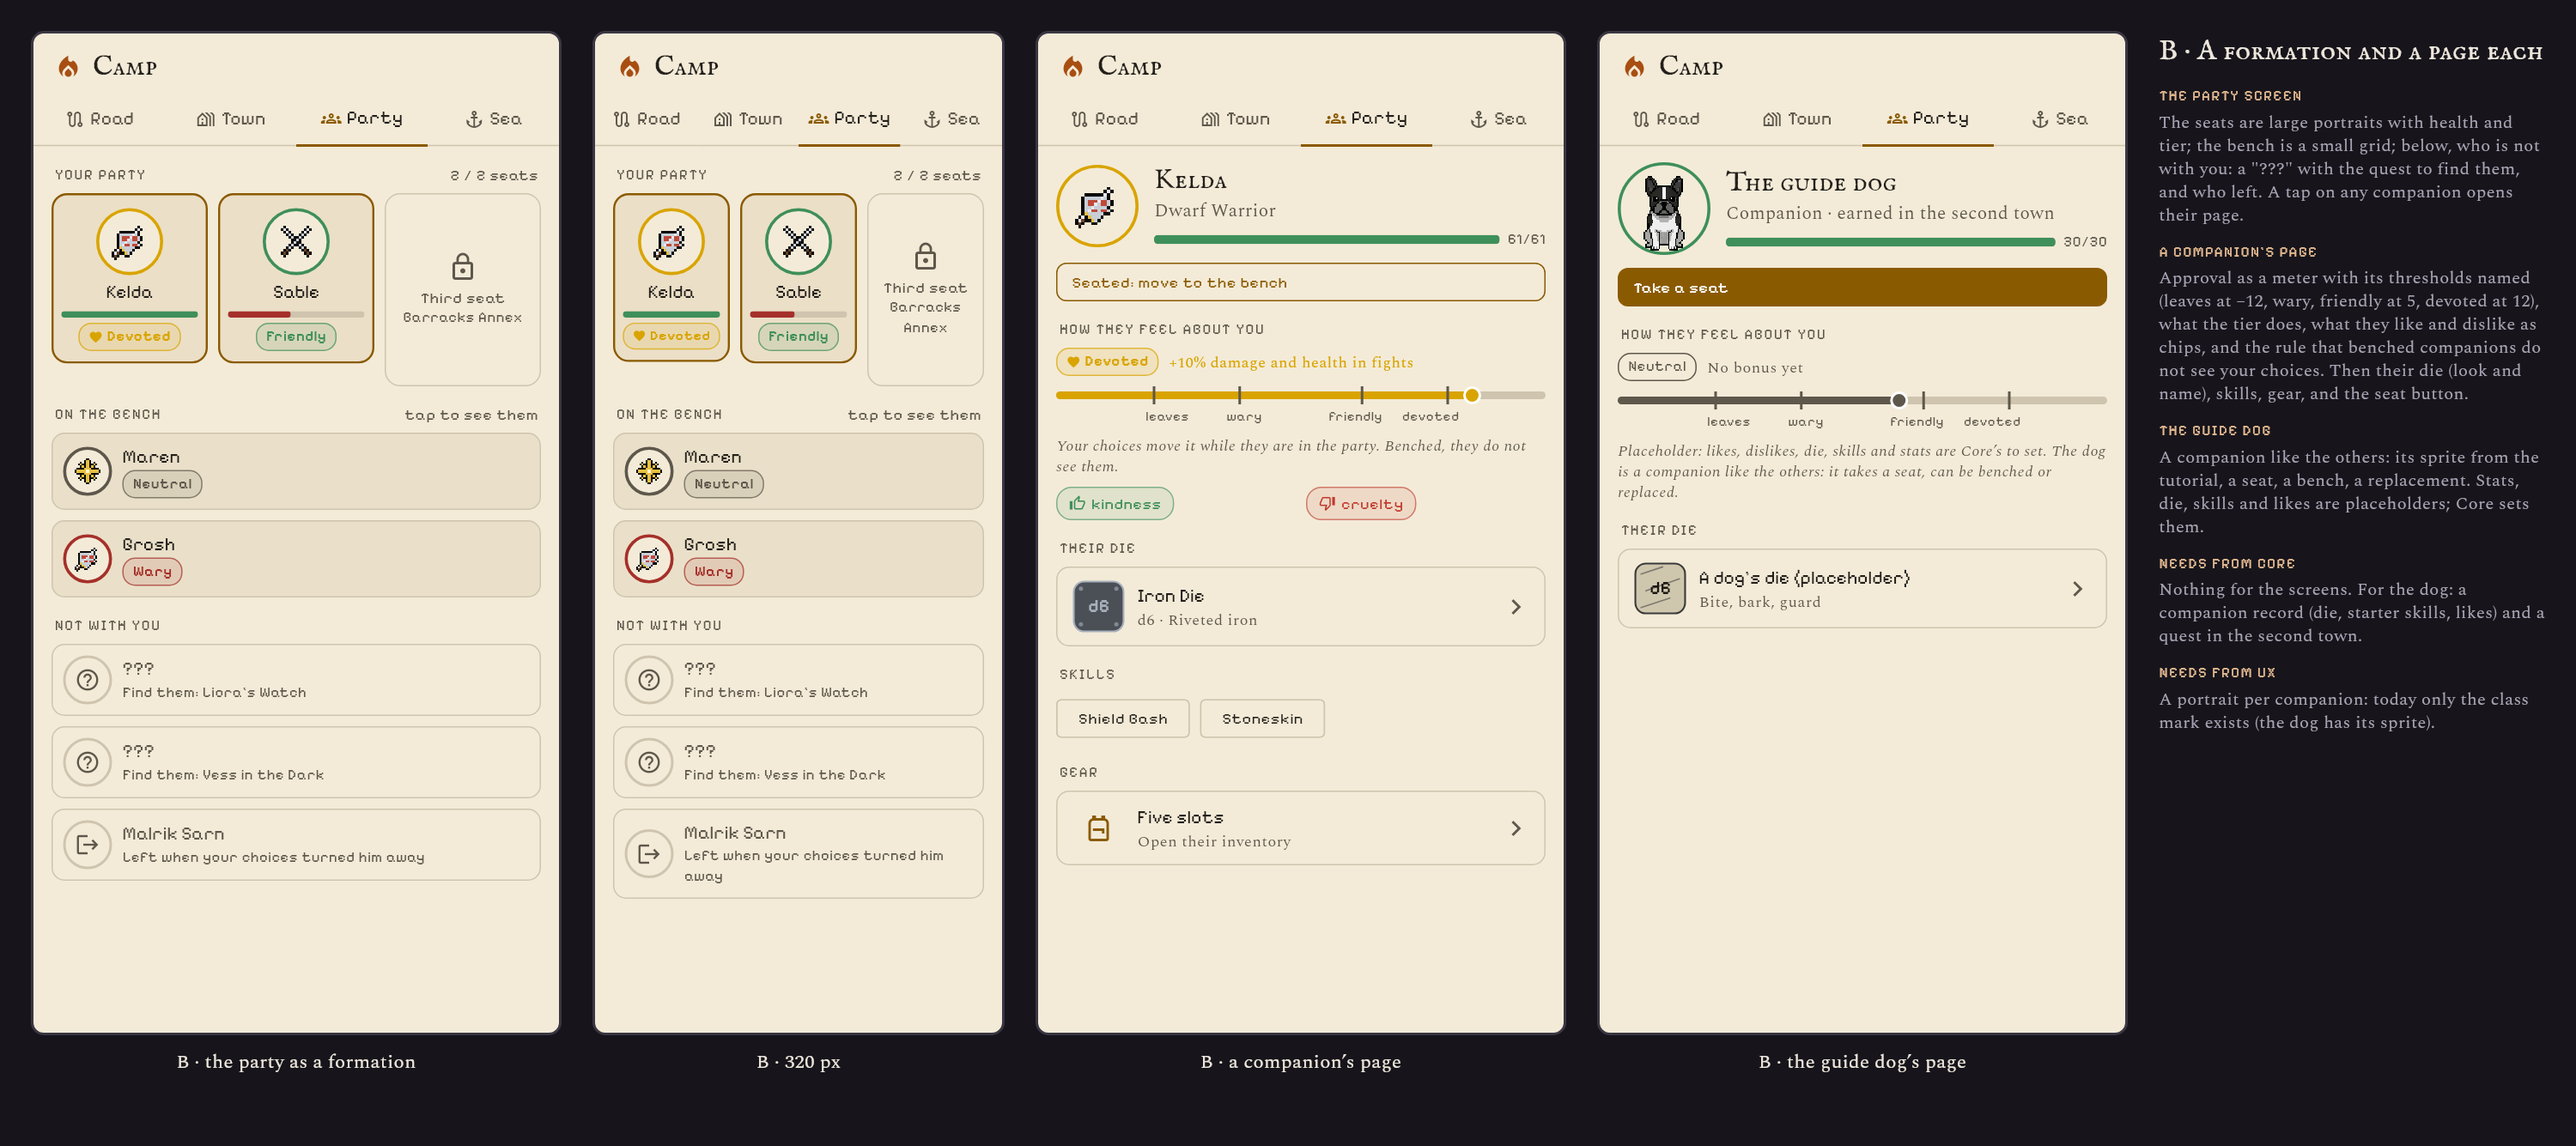
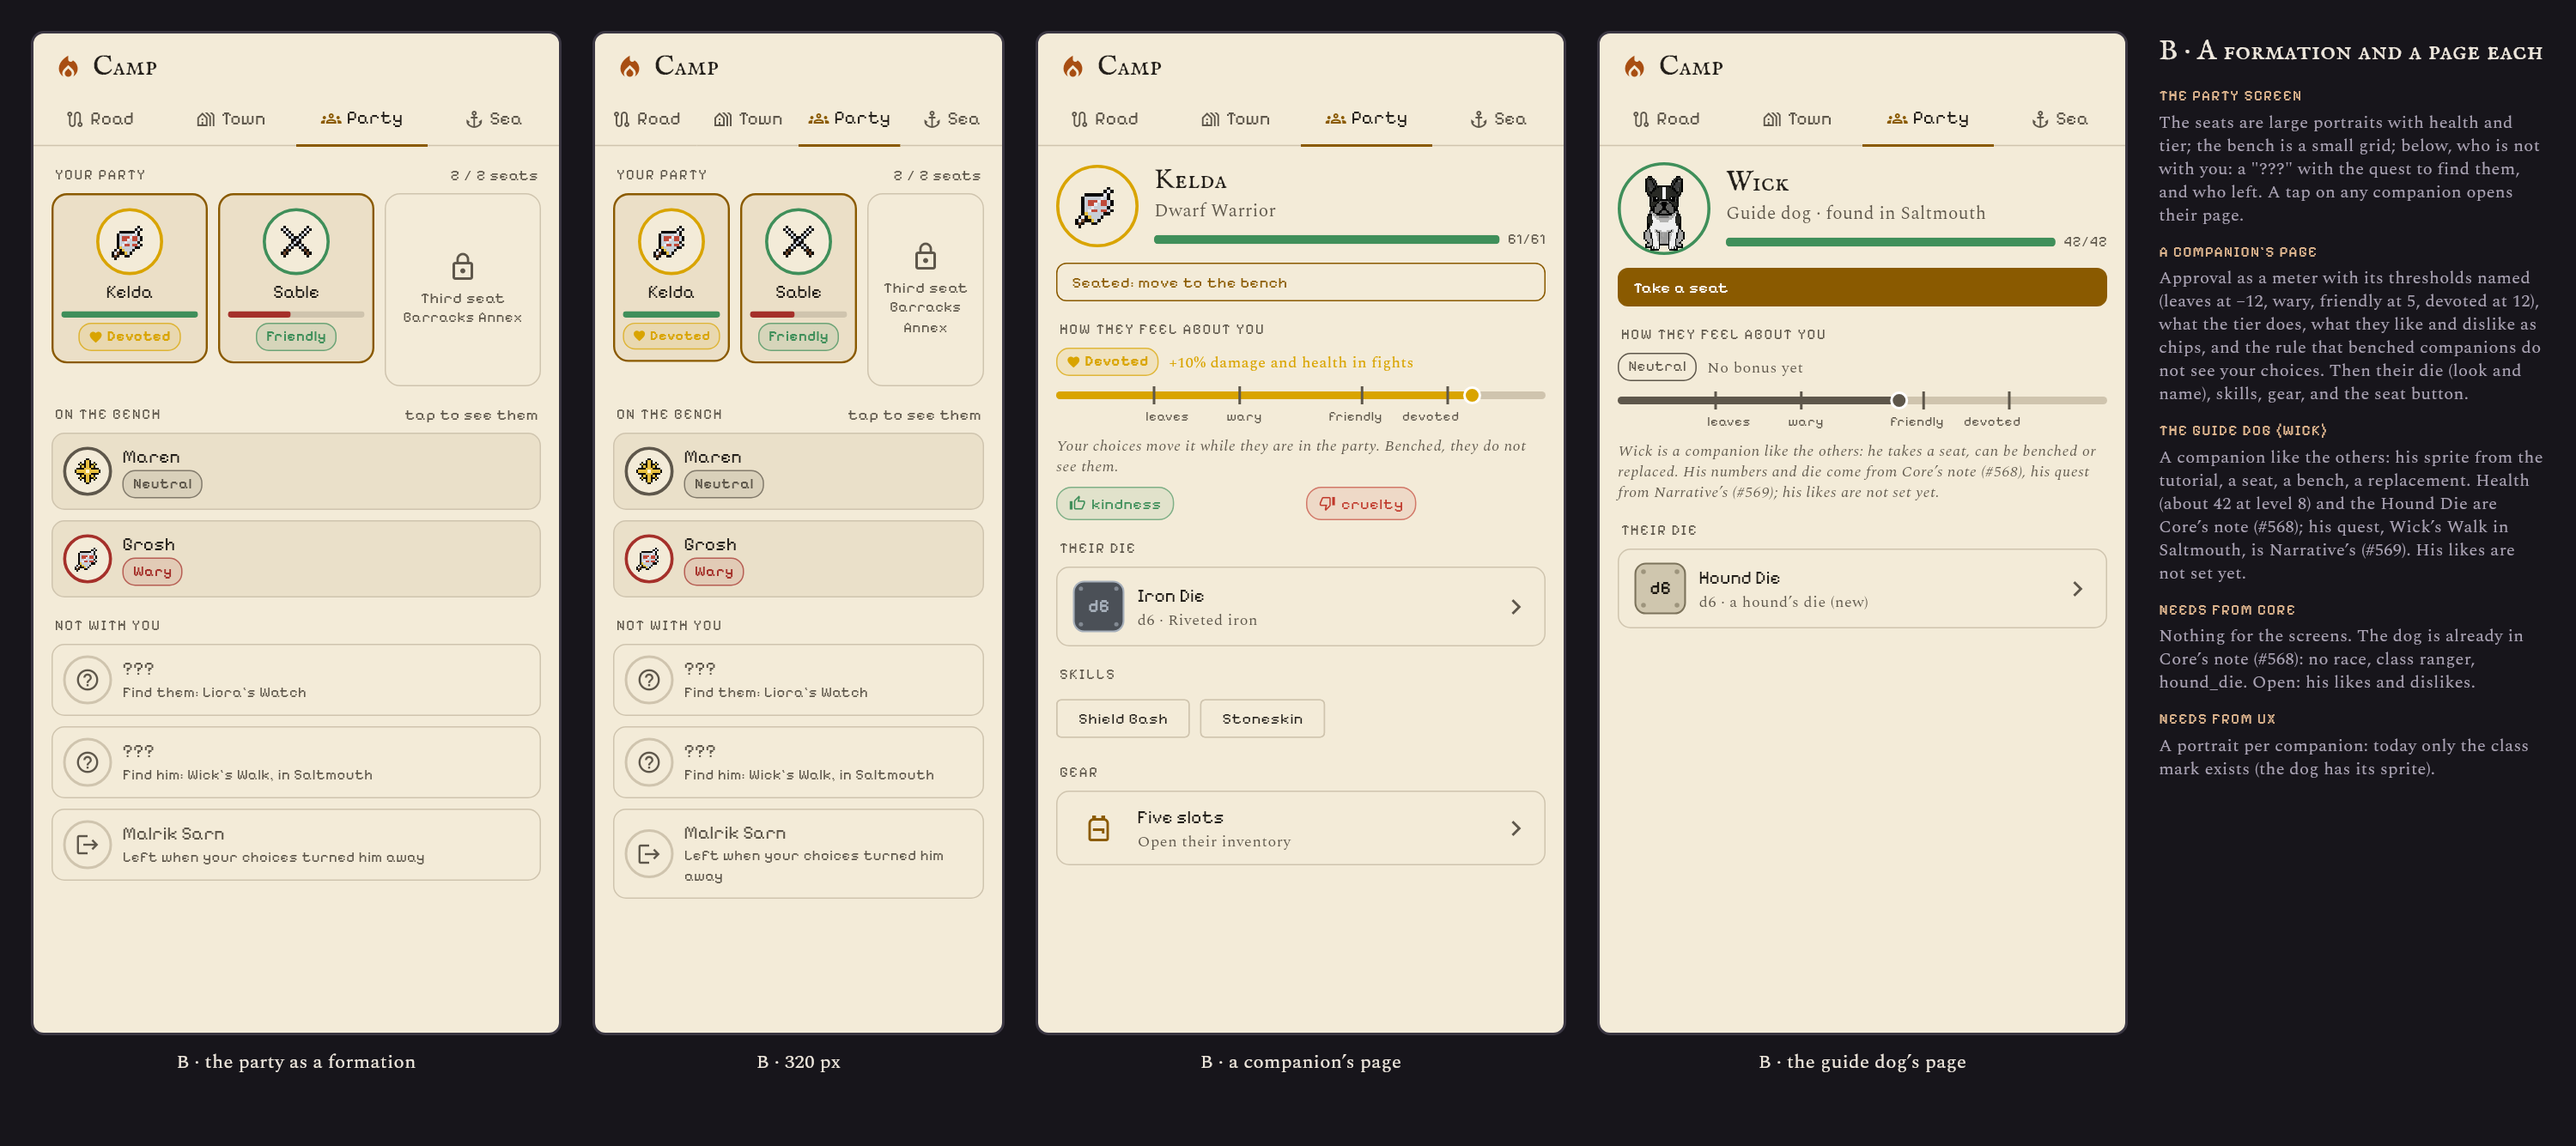
UX: the companion mock shows Wick from Core's and Narrative's notes
Claude-Session: https://claude.ai/code/session_01Y8cU3zPWWudNpnZGCrkKEc

diff --git a/test/ux_companion_mock_parts.dart b/test/ux_companion_mock_parts.dart
@@ -782,11 +782,15 @@ class BPage extends StatelessWidget {
           ]),
           sectionTitle(context, 'Not with you'),
           Column(children: [
-            for (final c in unmet.take(2))
+            for (final c in unmet.take(1))
               Padding(
                 padding: const EdgeInsets.only(bottom: 8),
                 child: ghost('???', 'Find them: ${questOf(c)}'),
               ),
+            Padding(
+              padding: const EdgeInsets.only(bottom: 8),
+              child: ghost('???', 'Find him: Wick’s Walk, in Saltmouth'),
+            ),
             ghost('Malrik Sarn', 'Left when your choices turned him away',
                 lost: true),
           ]),
@@ -1030,7 +1034,7 @@ class CompanionPage extends StatelessWidget {
 }
 
 /// The guide dog's page, as it would stand once earned: the sprite from the
-/// tutorial, a placeholder die and skills (Core's to define).
+/// tutorial, with the numbers of Core's note (#568).
 class DogPage extends StatelessWidget {
   const DogPage({super.key});
 
@@ -1061,17 +1065,17 @@ class DogPage extends StatelessWidget {
             child: Column(
               crossAxisAlignment: CrossAxisAlignment.start,
               children: [
-                Text('The guide dog',
+                Text('Wick',
                     style: theme.textTheme.titleLarge
                         ?.copyWith(fontFamily: InkFonts.display)),
-                Text('Companion · earned in the second town',
+                Text('Guide dog · found in Saltmouth',
                     style:
                         theme.textTheme.bodyMedium?.copyWith(color: ink.ash)),
                 const SizedBox(height: 4),
                 Row(children: [
-                  const Expanded(child: HpBar(hp: 30, max: 30, height: 7)),
+                  const Expanded(child: HpBar(hp: 42, max: 42, height: 7)),
                   const SizedBox(width: 6),
-                  Text('30/30',
+                  Text('42/42',
                       style:
                           theme.textTheme.labelSmall?.copyWith(color: ink.ash)),
                 ]),
@@ -1102,7 +1106,7 @@ class DogPage extends StatelessWidget {
         const ApprovalMeter(approval: startingApproval),
         const SizedBox(height: 6),
         Text(
-            'Placeholder: likes, dislikes, die, skills and stats are Core’s to set. The dog is a companion like the others: it takes a seat, can be benched or replaced.',
+            'Wick is a companion like the others: he takes a seat, can be benched or replaced. His numbers and die come from Core’s note (#568), his quest from Narrative’s (#569); his likes are not set yet.',
             style: theme.textTheme.bodySmall
                 ?.copyWith(color: ink.ash, fontStyle: FontStyle.italic)),
         sectionTitle(context, 'Their die'),
@@ -1117,15 +1121,15 @@ class DogPage extends StatelessWidget {
                 width: 44,
                 child: Center(
                     child: InventoryDieTile(
-                        dieId: 'twinfang_die', faces: 6, size: 40))),
+                        dieId: 'hound_die', faces: 6, size: 40))),
             const SizedBox(width: 8),
             Expanded(
               child: Column(
                 crossAxisAlignment: CrossAxisAlignment.start,
                 children: [
-                  Text('A dog’s die (placeholder)',
+                  Text(dieDisplayName('hound_die'),
                       style: theme.textTheme.titleSmall),
-                  Text('Bite, bark, guard',
+                  Text('d6 · a hound\u2019s die (new)',
                       style:
                           theme.textTheme.bodySmall?.copyWith(color: ink.ash)),
                 ],

diff --git a/test/ux_companion_mock_test.dart b/test/ux_companion_mock_test.dart
@@ -304,12 +304,12 @@ void main() {
           'Approval as a meter with its thresholds named (leaves at −12, wary, friendly at 5, devoted at 12), what the tier does, what they like and dislike as chips, and the rule that benched companions do not see your choices. Then their die (look and name), skills, gear, and the seat button.'
         ),
         (
-          'The guide dog',
-          'A companion like the others: its sprite from the tutorial, a seat, a bench, a replacement. Stats, die, skills and likes are placeholders; Core sets them.'
+          'The guide dog (Wick)',
+          'A companion like the others: his sprite from the tutorial, a seat, a bench, a replacement. Health (about 42 at level 8) and the Hound Die are Core’s note (#568); his quest, Wick’s Walk in Saltmouth, is Narrative’s (#569). His likes are not set yet.'
         ),
         (
           'Needs from Core',
-          'Nothing for the screens. For the dog: a companion record (die, starter skills, likes) and a quest in the second town.'
+          'Nothing for the screens. The dog is already in Core’s note (#568): no race, class ranger, hound_die. Open: his likes and dislikes.'
         ),
         (
           'Needs from UX',

diff --git a/docs/proposals/companion-interface.md b/docs/proposals/companion-interface.md
@@ -58,15 +58,17 @@ Annex. Pictures only: no build, no version. Mock test: `test/ux_companion_mock_t
   thresholds named** (leaves at −12, wary at −5, friendly at 5, devoted at 12), what the tier
   does, likes and dislikes as chips, and the line that benched companions do not see your choices; then
   their die (look and name, a tap opens the ring), skills, gear.
-- **The guide dog's page** (last frame): its sprite from the tutorial, "Companion · earned in the
-  second town", a seat, a bench. Its stats, die, skills and likes are placeholders.
+- **The guide dog's page** (last frame): Wick, his sprite from the tutorial, "Guide dog · found in
+  Saltmouth", a seat, a bench, the Hound Die. His numbers and die are Core's (#568), his quest (Wick's
+  Walk) Narrative's (#569); his likes and dislikes are not set yet.
 - Cost: a new page and a rebuilt Party tab: about two days of UX, more than A.
 
 ## What each needs from Core
 - **A:** nothing.
-- **B:** nothing for the screens. For the dog: a companion record in `companions.json` (die, starter
-  skills, likes) and its quest in the second town; whether it has the class-less look (no profession
-  mark) is UX's. For "Not with you": whether to show a companion not yet met as a "???" (a spoiler
+- **B:** nothing for the screens. The dog is in Core's note (#568: no race, class ranger, `hound_die`,
+  about 42 health at level 8) and Narrative's (#569: Wick's Walk, Saltmouth); what is still open for
+  Core is his likes and dislikes (approval weights) and whether his page shows a class at all (the
+  picture shows none, only "Guide dog"). For "Not with you": whether to show a companion not yet met as a "???" (a spoiler
   question for the story) and a record of who left (today `loseAlly` drops them; a list of the lost,
   with the reason, would feed the "left" row).
 - **UX:** a portrait per companion. Today only the class mark exists; the dog has its sprite.
